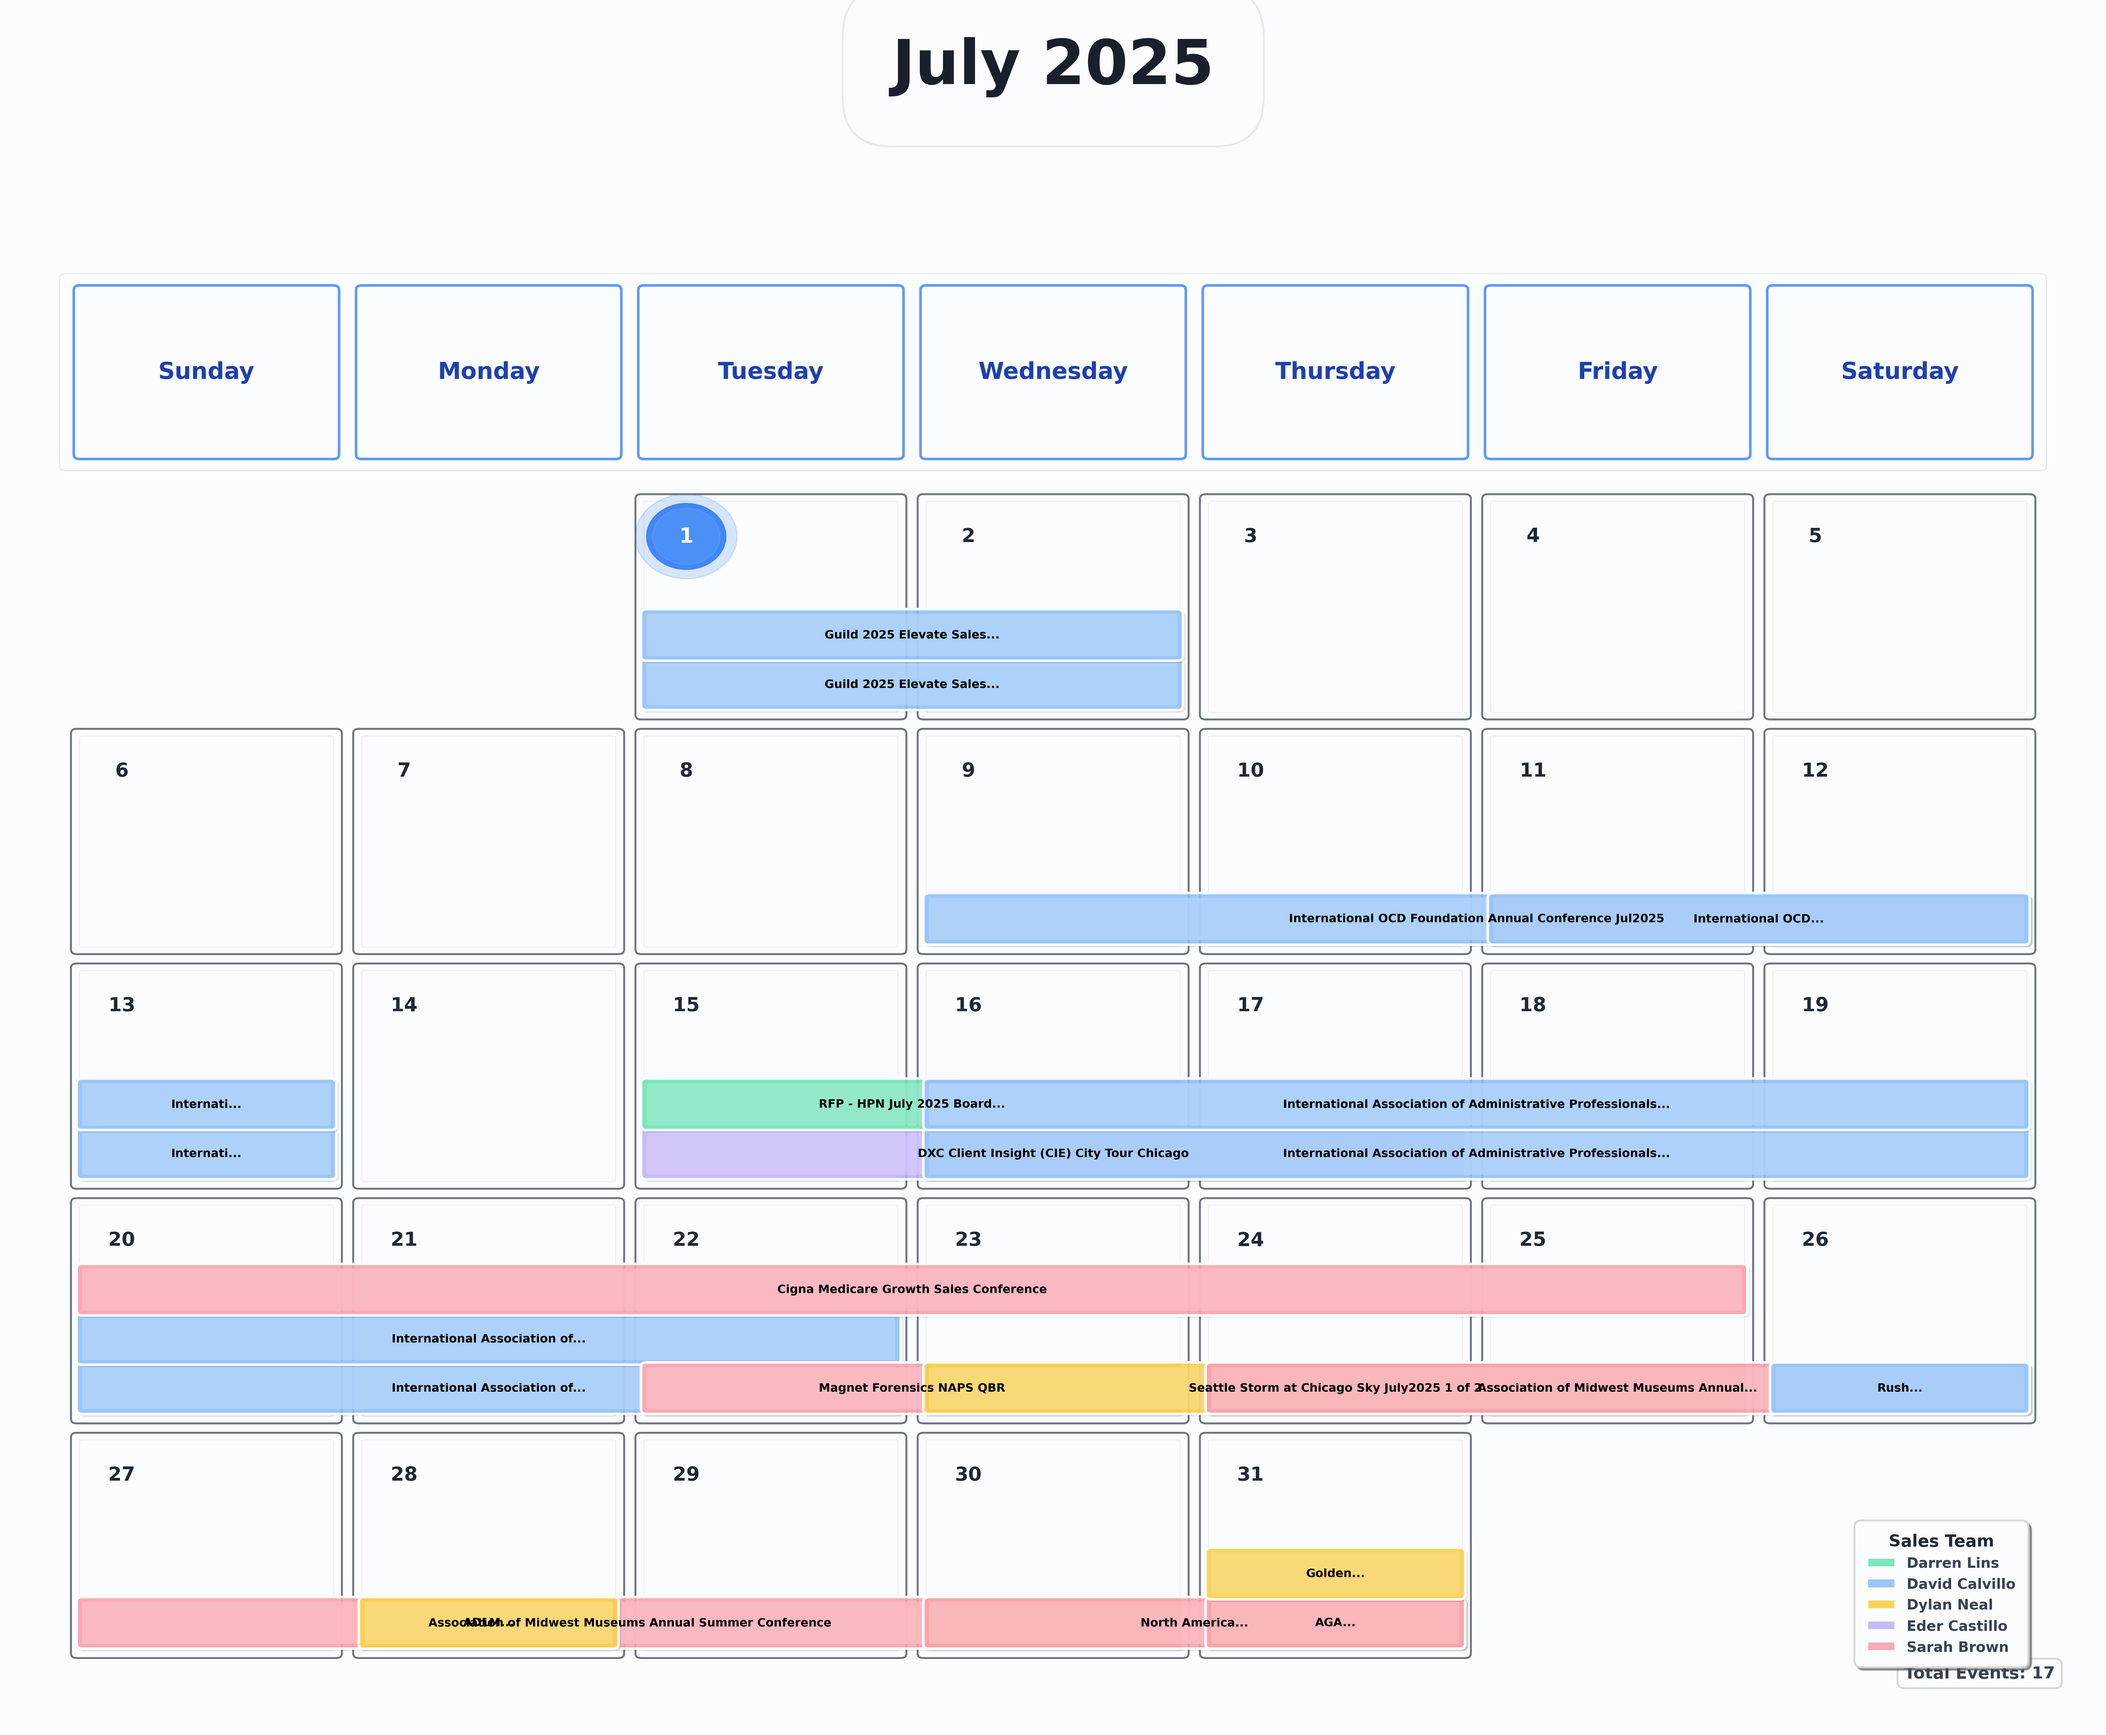
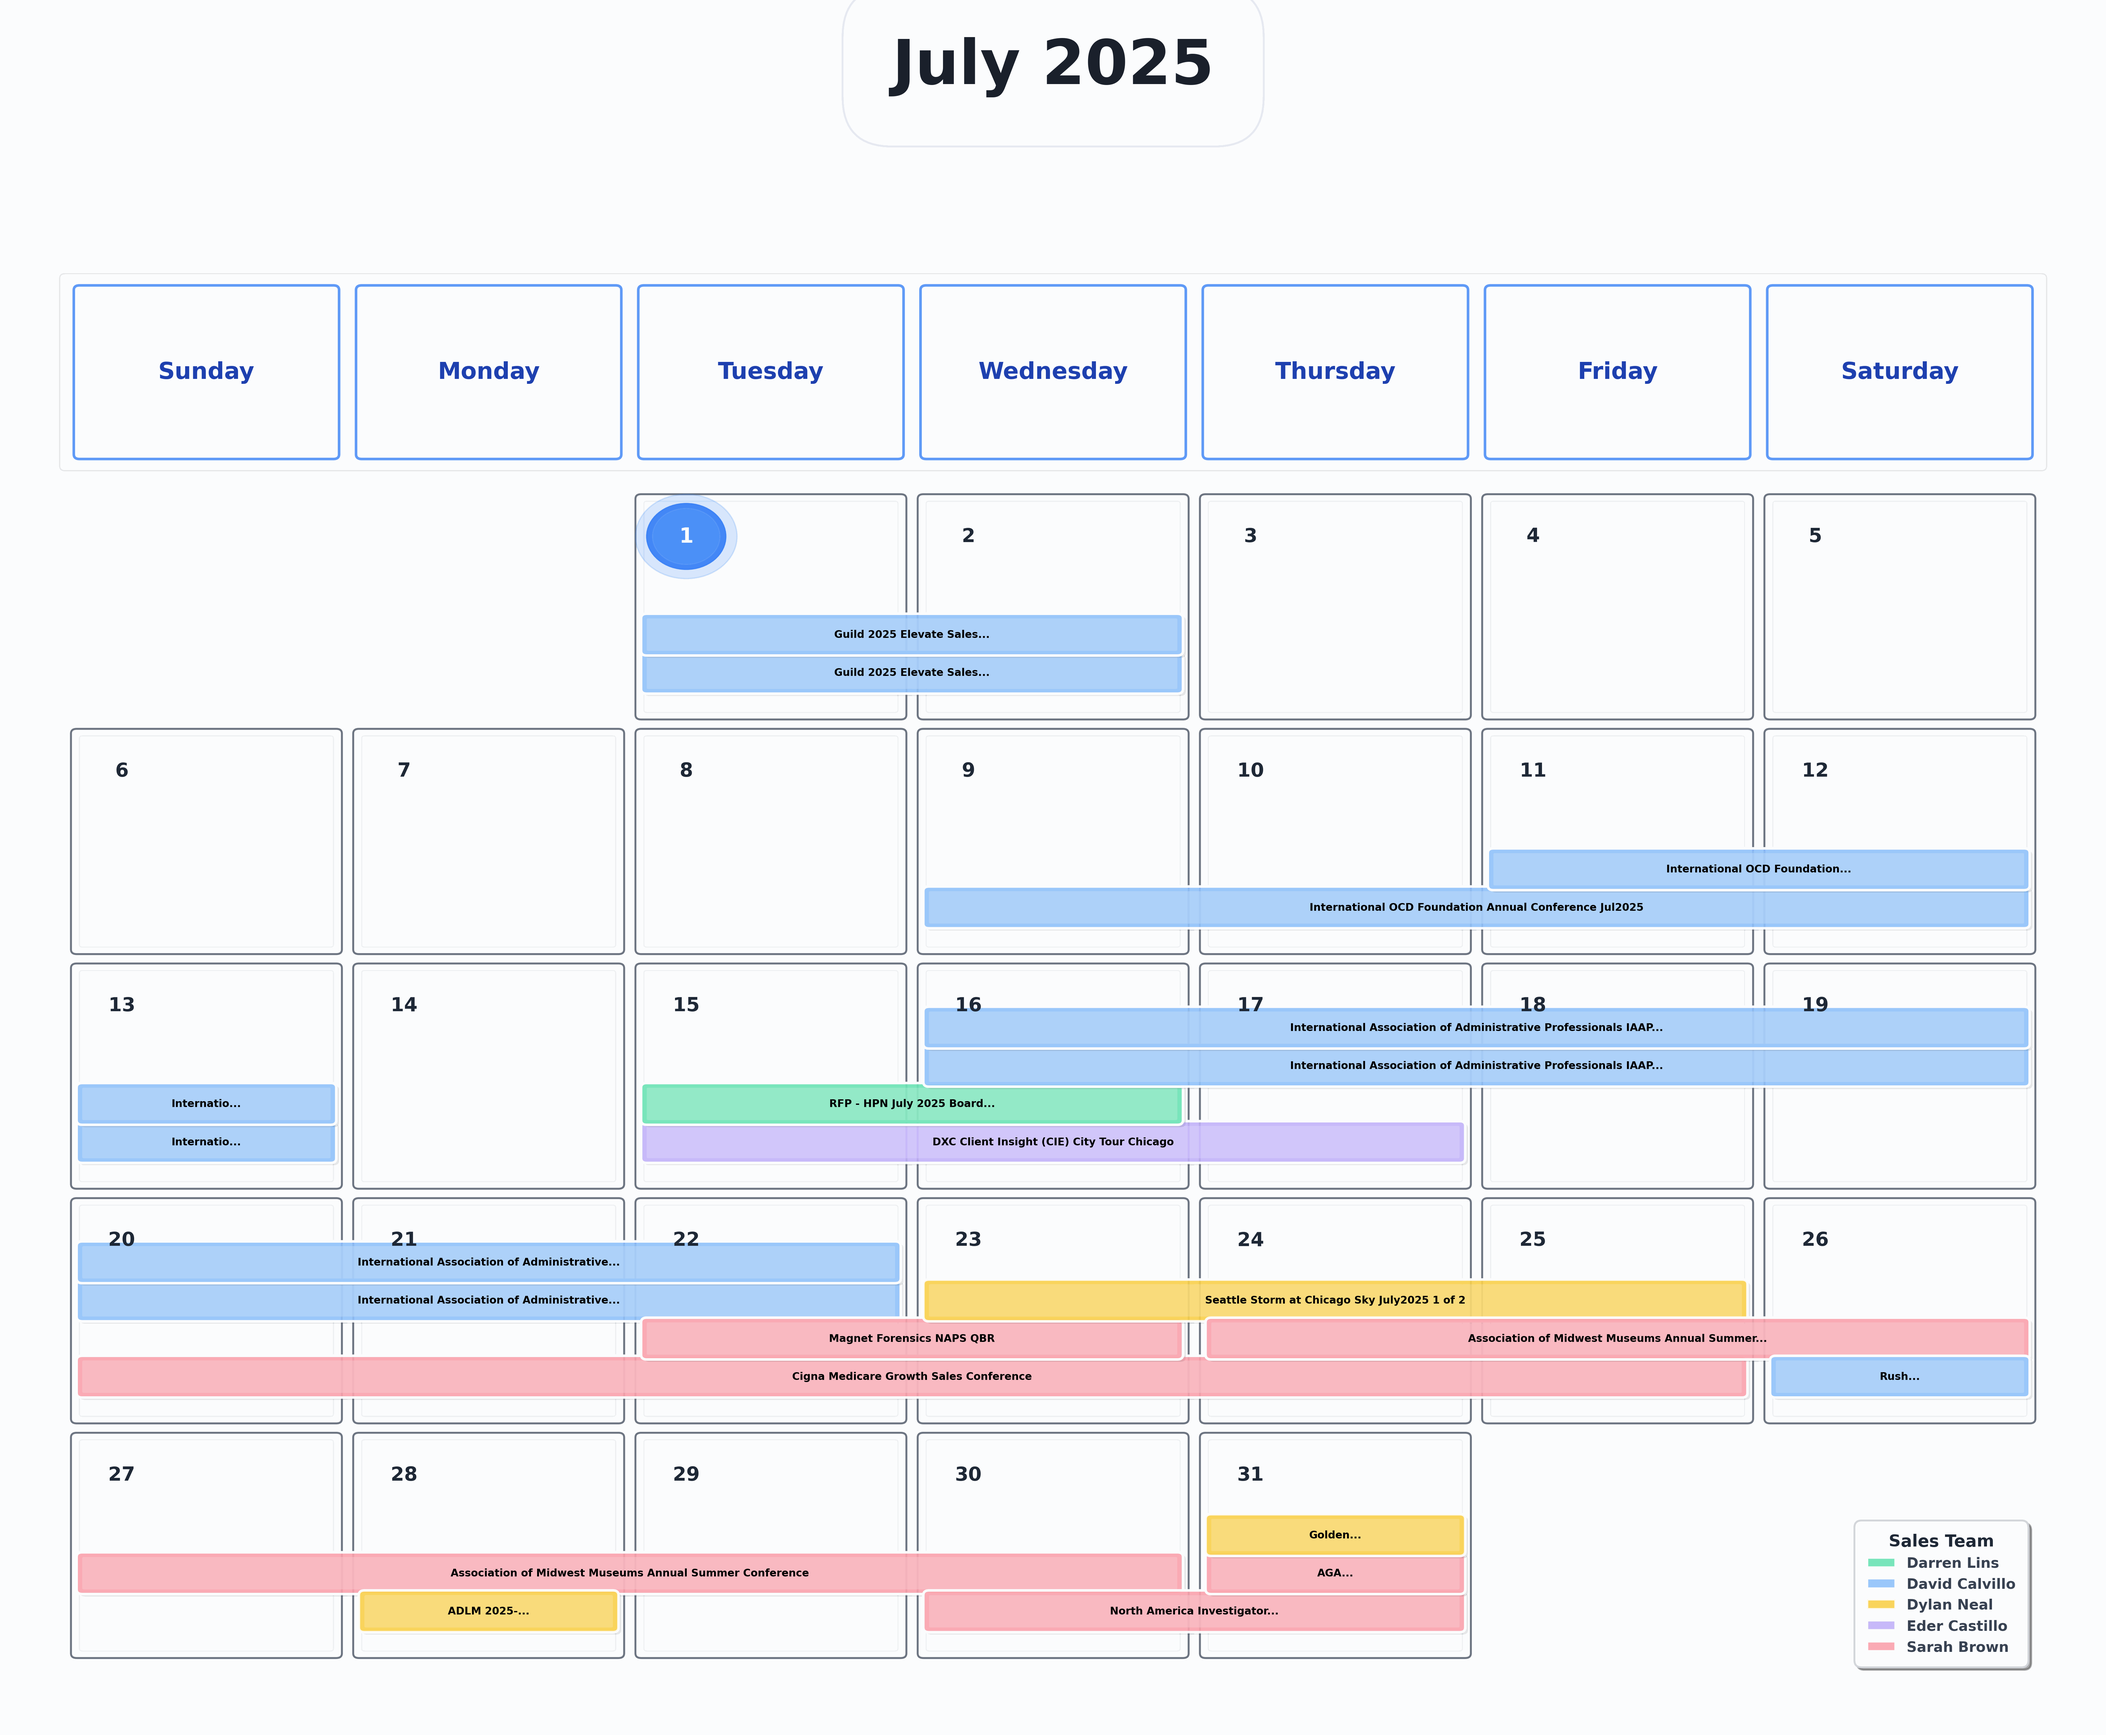
Enhanced calendar system with improved event positioning and spacing
- Implemented sophisticated 3-pass event placement algorithm
- Fixed overlapping events with intelligent slot-based positioning
- Added proper spacing between day numbers and event text
- Improved multi-day event continuity across calendar cells
- Removed 'Total Events' text for cleaner appearance
- Dynamic height adjustment based on event density
- Enhanced font sizing and readability
- Professional calendar layout with better visual hierarchy

diff --git a/flex_gantt.py b/flex_gantt.py
@@ -977,11 +977,15 @@ def calendar_for_month(df: pd.DataFrame, year: int, month: int, outdir: Path) ->
     
     # Add events to calendar with continuous multi-day spans
     if not sub.empty:
-        # Track events per day to handle vertical stacking
-        events_per_day = {}
+        # Create a comprehensive tracking system for event placement
+        # Track which vertical slots are occupied on each day
+        day_slots = {}  # day -> list of occupied slot indices
+        event_placements = []  # Store (event, slot_index, spans) for drawing
         
         # First pass: count events per day to determine maximum events on any day
         max_events_per_day = 0
+        events_per_day = {}
+        
         for _, event in sub.iterrows():
             event_start = max(event["Event Start Date"], mstart)
             event_end = min(event["Event End Date"], mend)
@@ -998,95 +1002,116 @@ def calendar_for_month(df: pd.DataFrame, year: int, month: int, outdir: Path) ->
                     max_events_per_day = max(max_events_per_day, events_per_day[day_key])
                 current_date += timedelta(days=1)
         
-        # Reset counter for actual placement
-        events_per_day = {}
-        
         # Calculate optimal event height for better readability
-        max_events_to_fit = min(max_events_per_day, 5)  # Limit to 5 events max per day for better readability
-        event_height = min(0.18, 0.8 / max_events_to_fit)  # Larger height for better text readability
-        event_spacing = 0.03  # Better spacing between events
+        max_events_to_fit = min(max_events_per_day, 5)  # Allow up to 5 events per day for better spacing
+        available_height = 0.65  # Available space in each cell for events (reduced due to increased base_offset)
+        event_height = available_height / max_events_to_fit * 0.85  # Use 85% to ensure spacing
+        event_spacing = available_height / max_events_to_fit * 0.15  # Use 15% for spacing
         
+        # Minimum height to ensure readability
+        event_height = max(event_height, 0.08)
+        event_spacing = max(event_spacing, 0.02)
+        
+        # Second pass: assign vertical slots to events
         for _, event in sub.iterrows():
             event_start = max(event["Event Start Date"], mstart)
             event_end = min(event["Event End Date"], mend)
-            
-            # Get owner color
-            owner_color = get_seller_color(event.get("Owner", ""))
-            event_name = str(event["Event Name"])
             
             # Calculate all days this event spans within the month
             span_start = event_start.date()
             span_end = event_end.date()
             
-            # Group consecutive days by week and position to create continuous spans
-            event_spans = []  # List of (start_pos, end_pos, week_y) tuples
-            
+            # Get all days this event spans
+            event_days = []
             current_date = span_start
             while current_date <= span_end:
                 if current_date.month == month:
-                    # Find position in calendar
                     day = current_date.day
-                    
-                    # Find which week and day of week
+                    # Find position in calendar
                     for week_idx, week in enumerate(cal):
                         if day in week:
                             day_idx = week.index(day)
                             y_pos = num_weeks - week_idx - 1
                             x_pos = day_idx
+                            event_days.append((day, x_pos, y_pos))
                             break
-                    else:
-                        current_date += timedelta(days=1)
-                        continue
-                    
-                    # Find consecutive days in the same week
-                    span_start_x = x_pos
-                    span_y = y_pos
-                    span_end_x = x_pos
-                    
-                    # Look ahead for consecutive days in same week
-                    look_ahead_date = current_date + timedelta(days=1)
-                    while (look_ahead_date <= span_end and 
-                           look_ahead_date.month == month and
-                           span_end_x < 6):  # Don't go past Saturday
-                        
-                        look_ahead_day = look_ahead_date.day
-                        # Check if next day is in same week
-                        for week_idx, week in enumerate(cal):
-                            if look_ahead_day in week:
-                                look_ahead_day_idx = week.index(look_ahead_day)
-                                look_ahead_y_pos = num_weeks - week_idx - 1
-                                if (look_ahead_y_pos == span_y and 
-                                    look_ahead_day_idx == span_end_x + 1):
-                                    span_end_x = look_ahead_day_idx
-                                    current_date = look_ahead_date
-                                    look_ahead_date += timedelta(days=1)
-                                else:
-                                    break
-                                break
-                        else:
-                            break
-                    
-                    event_spans.append((span_start_x, span_end_x, span_y))
-                
                 current_date += timedelta(days=1)
+            
+            if not event_days:
+                continue
+            
+            # Find the lowest available slot that works for all days in this event
+            slot_index = 0
+            slot_found = False
+            
+            while slot_index < max_events_to_fit and not slot_found:
+                # Check if this slot is available for all days of this event
+                slot_available = True
+                for day, x_pos, y_pos in event_days:
+                    day_key = (day, x_pos, y_pos)
+                    if day_key in day_slots and slot_index in day_slots[day_key]:
+                        slot_available = False
+                        break
+                
+                if slot_available:
+                    # Reserve this slot for all days of this event
+                    for day, x_pos, y_pos in event_days:
+                        day_key = (day, x_pos, y_pos)
+                        if day_key not in day_slots:
+                            day_slots[day_key] = []
+                        day_slots[day_key].append(slot_index)
+                    slot_found = True
+                else:
+                    slot_index += 1
+            
+            if not slot_found:
+                # Skip this event if no slot available (too many events on some day)
+                continue
+            
+            # Group consecutive days by week for continuous spans
+            event_spans = []  # List of (start_x, end_x, week_y) tuples
+            
+            current_span_start = None
+            current_span_y = None
+            
+            for i, (day, x_pos, y_pos) in enumerate(event_days):
+                # Start new span or continue existing
+                if current_span_start is None:
+                    current_span_start = x_pos
+                    current_span_y = y_pos
+                    current_span_end = x_pos
+                elif y_pos == current_span_y and x_pos == current_span_end + 1:
+                    # Continue current span
+                    current_span_end = x_pos
+                else:
+                    # End current span and start new one
+                    event_spans.append((current_span_start, current_span_end, current_span_y))
+                    current_span_start = x_pos
+                    current_span_y = y_pos
+                    current_span_end = x_pos
+            
+            # Add the final span
+            if current_span_start is not None:
+                event_spans.append((current_span_start, current_span_end, current_span_y))
+            
+            # Store event placement info for drawing
+            event_placements.append((event, slot_index, event_spans))
+        
+        # Third pass: draw all events using their assigned slots
+        for event, slot_index, event_spans in event_placements:
+            # Get event details
+            owner_color = get_seller_color(event.get("Owner", ""))
+            event_name = str(event["Event Name"])
+            
+            # Calculate vertical position based on slot
+            base_offset = 0.15  # Increased spacing from day numbers
+            event_y_offset = base_offset + slot_index * (event_height + event_spacing)
             
             # Draw continuous event spans
             for span_start_x, span_end_x, span_y in event_spans:
-                # Track events for vertical stacking at the start position
-                day_key = (span_start_x, span_y)
-                if day_key not in events_per_day:
-                    events_per_day[day_key] = 0
-                
-                # Calculate vertical offset for this event
-                event_index = events_per_day[day_key]
-                base_offset = 0.08
-                event_y_offset = base_offset + event_index * (event_height + event_spacing)
-                
                 # Skip if event would go outside cell boundaries
-                if event_y_offset + event_height > 0.92:
+                if event_y_offset + event_height > 0.80:
                     continue
-                
-                events_per_day[day_key] += 1
                 
                 # Calculate continuous span dimensions
                 rect_x = span_start_x + 0.06
@@ -1117,7 +1142,8 @@ def calendar_for_month(df: pd.DataFrame, year: int, month: int, outdir: Path) ->
                 ax.add_patch(highlight_rect)
                 
                 # Add event text with smart sizing based on total span width
-                font_size = max(9, min(12, int(event_height * 50)))
+                # Scale font size based on available height
+                font_size = max(8, min(14, int(event_height * 60)))
                 
                 # Center positioning for text across entire span
                 text_x = rect_x + rect_width/2
@@ -1186,15 +1212,7 @@ def calendar_for_month(df: pd.DataFrame, year: int, month: int, outdir: Path) ->
                 legend.get_frame().set_boxstyle("round,pad=0.5")
                 legend.get_frame().set_linewidth(1.5)
     
-    # Add beautiful month stats with elegant styling
-    if not sub.empty:
-        stats_text = f"Total Events: {len(sub)}"
-        ax.text(7.05, -0.08, stats_text,
-               ha='right', va='bottom', fontsize=13, 
-               fontweight='700', color='#374151',
-               fontfamily='sans-serif',
-               bbox=dict(boxstyle="round,pad=0.4", facecolor='#ffffff', 
-                        alpha=0.95, edgecolor='#d1d5db', linewidth=1.5))
+
     
     outfile = outdir / f"calendar_{year}_{month:02d}.png"
     fig.savefig(outfile, dpi=300, bbox_inches='tight', facecolor='#f8fafc', 
